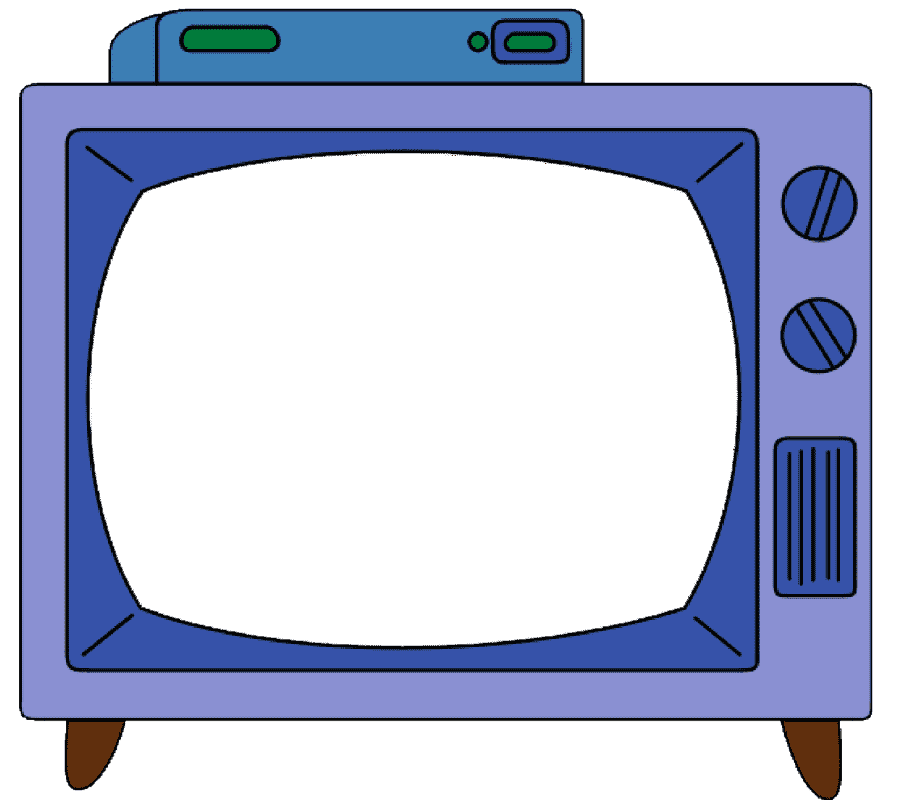
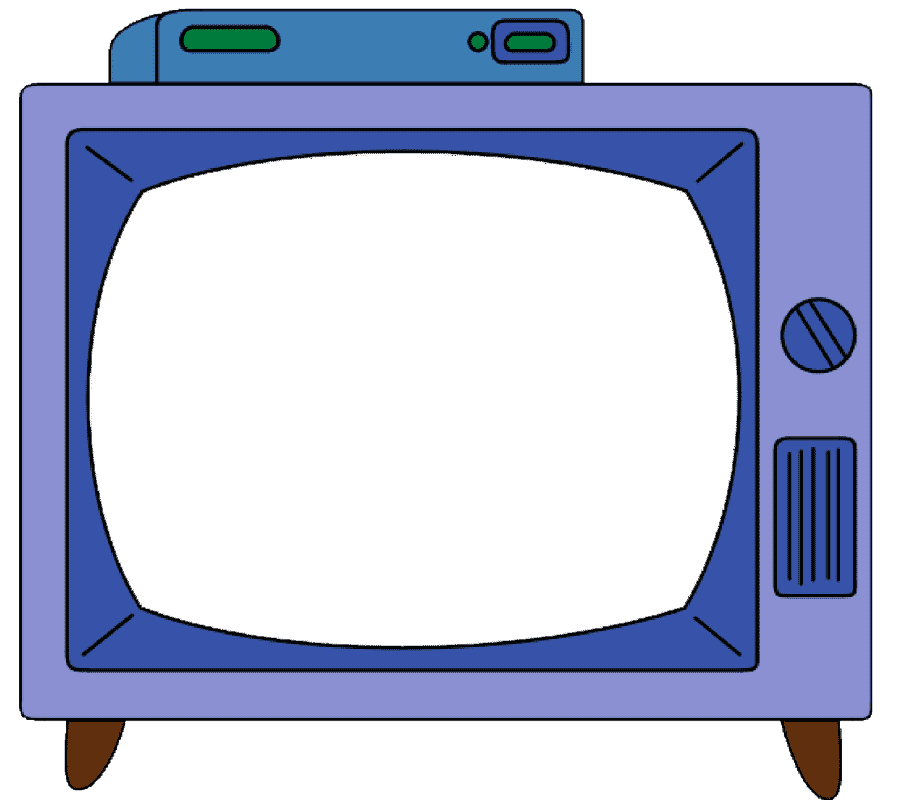
improve button

Changed region(s): [[0.8711, 0.1875, 0.9644, 0.3125]]

diff --git a/public/index.html b/public/index.html
@@ -28,26 +28,88 @@
         <script src="https://cdn.bootcss.com/flv.js/1.5.0/flv.min.js"></script>
         
         <div class="tvContainer">
-            <!-- <div class="backgroundPanel"></div> -->
-            <div class="videoItem">
-                    <video id="videoElement" loop autoplay  controls poster="baner.jpg"></video>
-            </div>
+            <div class="videoItem" id="videoContainer"></div>
             
             <img src="tv.png" alt="" class="tvImage">
+            <img id="channelButton" src="tvButton.png" alt="" class="tvButton">
         </div>
         
             
         </img>
         <script>
+            const button = document.getElementById("channelButton");
+            var currentRotation = 0;    
+            button.style.transform = `rotate(${currentRotation}deg)`  
+            const videoNames = ["channel01","channel03","channel02","channel04"]
+            const videoContainer = document.getElementById("videoContainer");
+            const videos = []
+            var selectedChannel = 0;
+            function getVideoElement() {
+                var video = document.createElement("video");
+                video.setAttribute("loop", true)
+                video.setAttribute("autoplay", true)
+                video.setAttribute("controls", true)
+                video.setAttribute("poster", "baner.jpg");
+                video.setAttribute("preload", "metadata")
+                video.style.display = "none";
+                return video;
+            }
+
+            function loadVideo(videoObject) {
+                videoObject.flvPlayer.load();
+                videoObject.video.style.display = "block";
+                console.log([videoObject.video])
+                try {
+                    videoObject.video.play(); 
+                } catch (error) {} 
+            }
+
+            function unloadVideo(videoObject) {
+                videoObject.flvPlayer.unload();
+                videoObject.video.style.display = "none";  
+            }
+
+            function switchChannel() {
+                currentRotation += 360 / videoNames.length;
+                button.style.transform = `rotate(${currentRotation}deg)`
+                unloadVideo(videos[selectedChannel])
+
+                if (selectedChannel +1 >= videos.length) selectedChannel = 0;
+                else selectedChannel ++;
+
+                loadVideo(videos[selectedChannel])
+            }
+
             if (flvjs.isSupported()) {
-                var videoElement = document.getElementById('videoElement');
-                var flvPlayer = flvjs.createPlayer({
-                    type: 'flv',
-                    url: 'ws://backend.seta.fun:8000/stream/stream.flv',
-                    isLive: true
+                videoNames.forEach((name, i) => {
+                    var video = getVideoElement();
+                    var source = `ws://localhost:8000/stream/${name}.flv`;
+                    videoContainer.appendChild(video);
+                    var flvPlayer = flvjs.createPlayer({
+                        type: 'flv',
+                        url: source,
+                        isLive: true
+                    });
+                    flvPlayer.attachMediaElement(video);
+                    videos[i] = {video, flvPlayer};
+
+                    video.addEventListener('ended', () => {
+                        console.log(video, source, videos[i])
+                        video.src = source;
+                        if (selectedChannel == i) loadVideo(videos[i])
+                    }, false);
+
+                    video.addEventListener('error', () => {
+                        video.src = source;
+                        if (selectedChannel == i) loadVideo(videos[i])
+                    }, true);
                 });
-                flvPlayer.attachMediaElement(videoElement);
-                flvPlayer.load();
+                loadVideo(videos[0])
+
+                button.onclick = () => {
+                    switchChannel()
+                }
+                console.log([button])
             }
         </script>
 </body>

diff --git a/public/styles.css b/public/styles.css
@@ -1,4 +1,21 @@
 
+@media screen and (max-width: 800px) {
+    .tvContainer {
+        width: 95vw;
+        left: 32%;
+        margin-top: 20vh;
+    }
+}
+
+@media screen and (min-width: 800px) {
+    .tvContainer {
+        width: 60vw;
+        left: 50%;
+        margin-top: 8vh;
+    }
+}
+
+
 .videoItem {
     width: 60%;
     height:auto;
@@ -17,11 +34,9 @@
 
 .tvContainer {
     object-fit: cover;
-    width: 60vw;
     height: 80vh;
     position: relative;
-    left: 50%;
-    top: 30%;
+
     margin-left: -30vw;
     max-width: 900px;
     max-height: 900px;
@@ -40,6 +55,19 @@
     z-index: 10;
     position: absolute;
     pointer-events: none;
+}
+
+.tvButton {
+    width: 9%;
+    left: 86.5%;
+    z-index: 10;
+    margin-top: 17%;
+    position: absolute; 
+    outline: none;
+    border-color: #9ecaed;
+    box-shadow: 0 0 10px #ffffff;
+    border: 0.2em solid #9ecaed;
+    border-radius: 50%;
 }
 
 .backgroundPanel {
